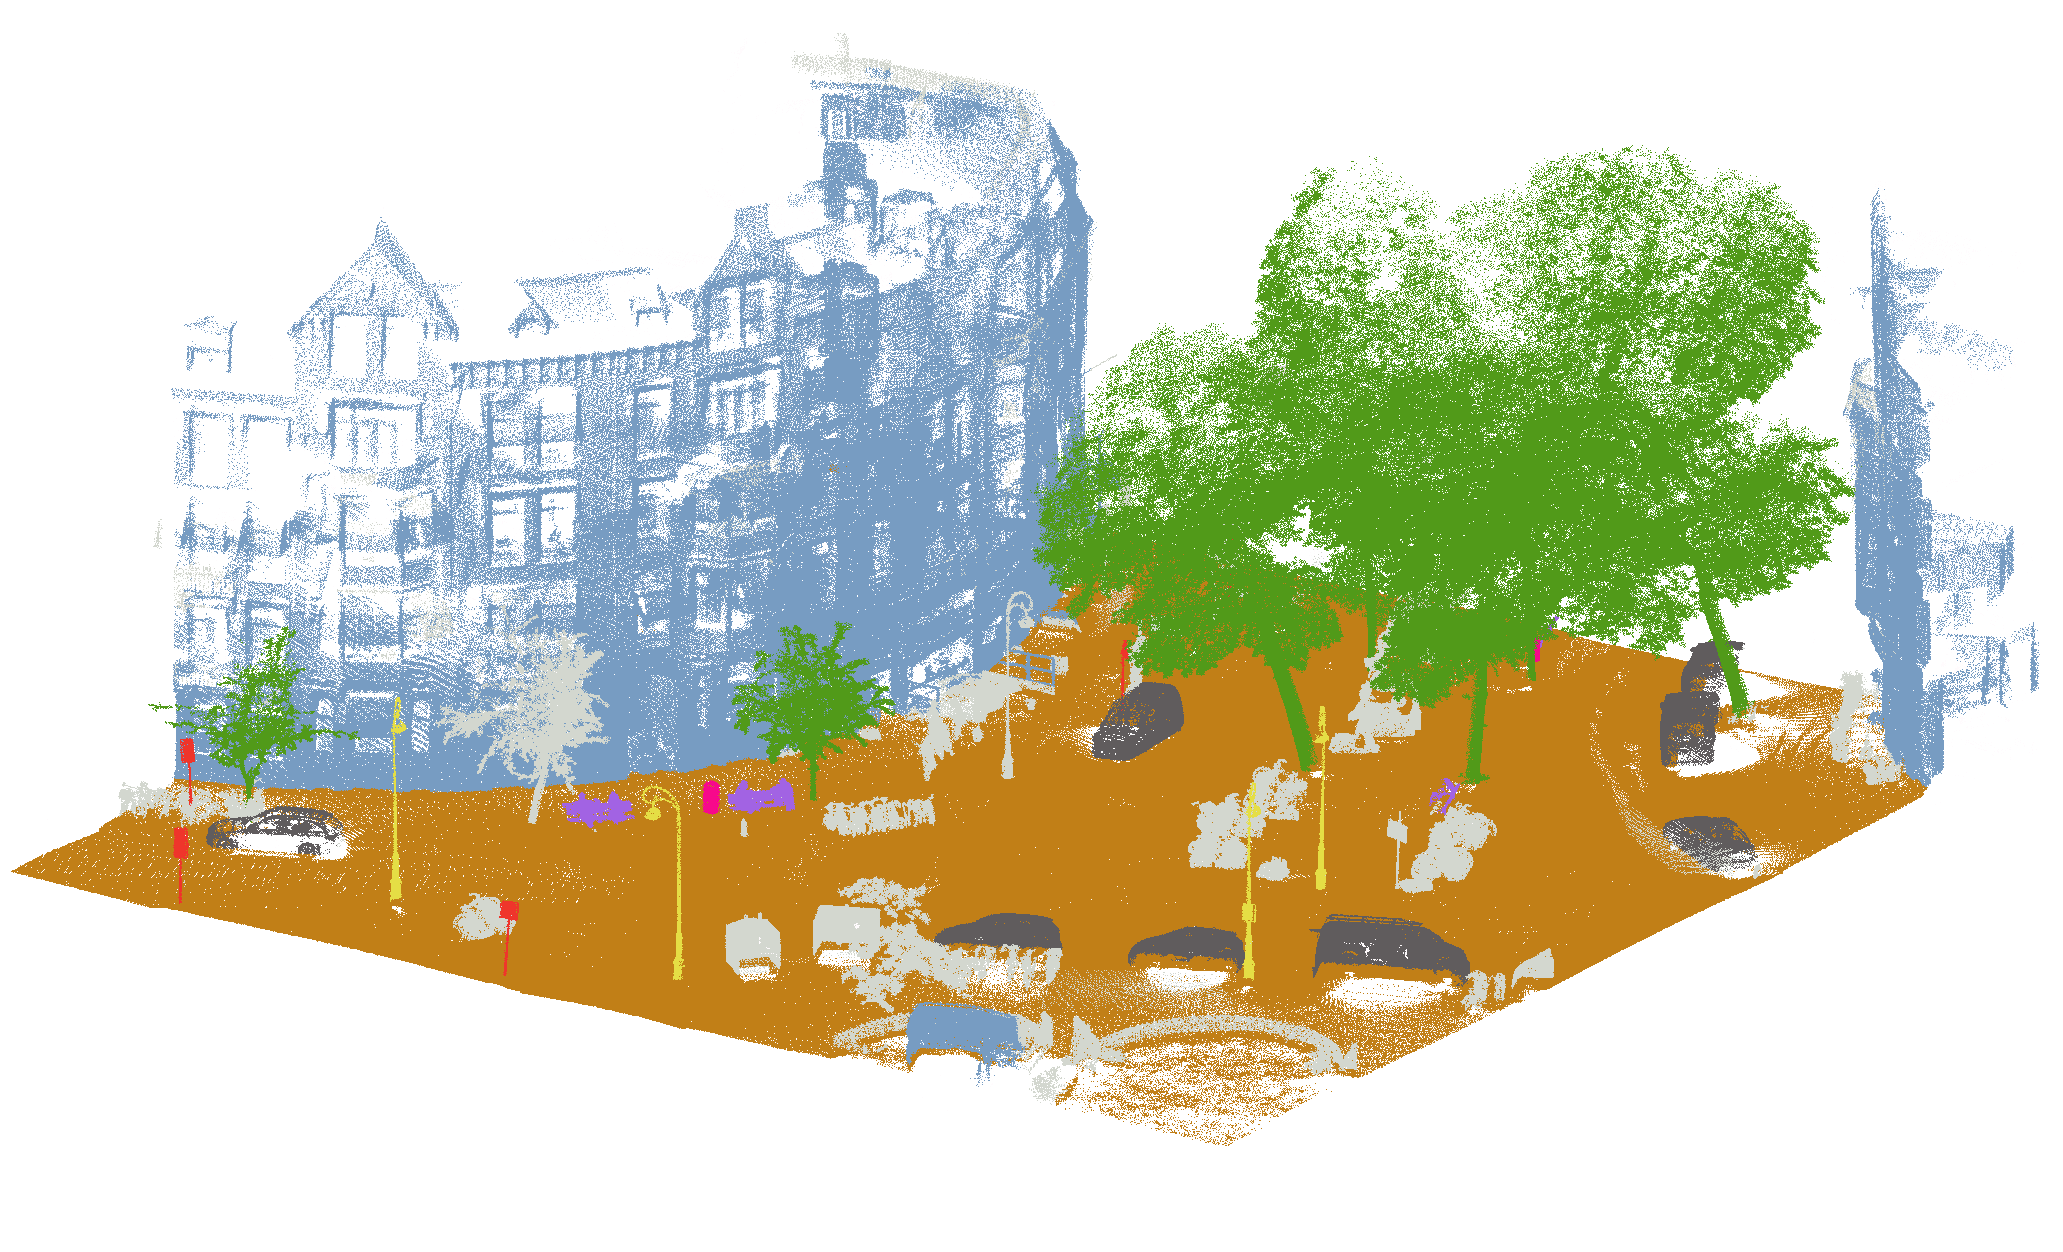
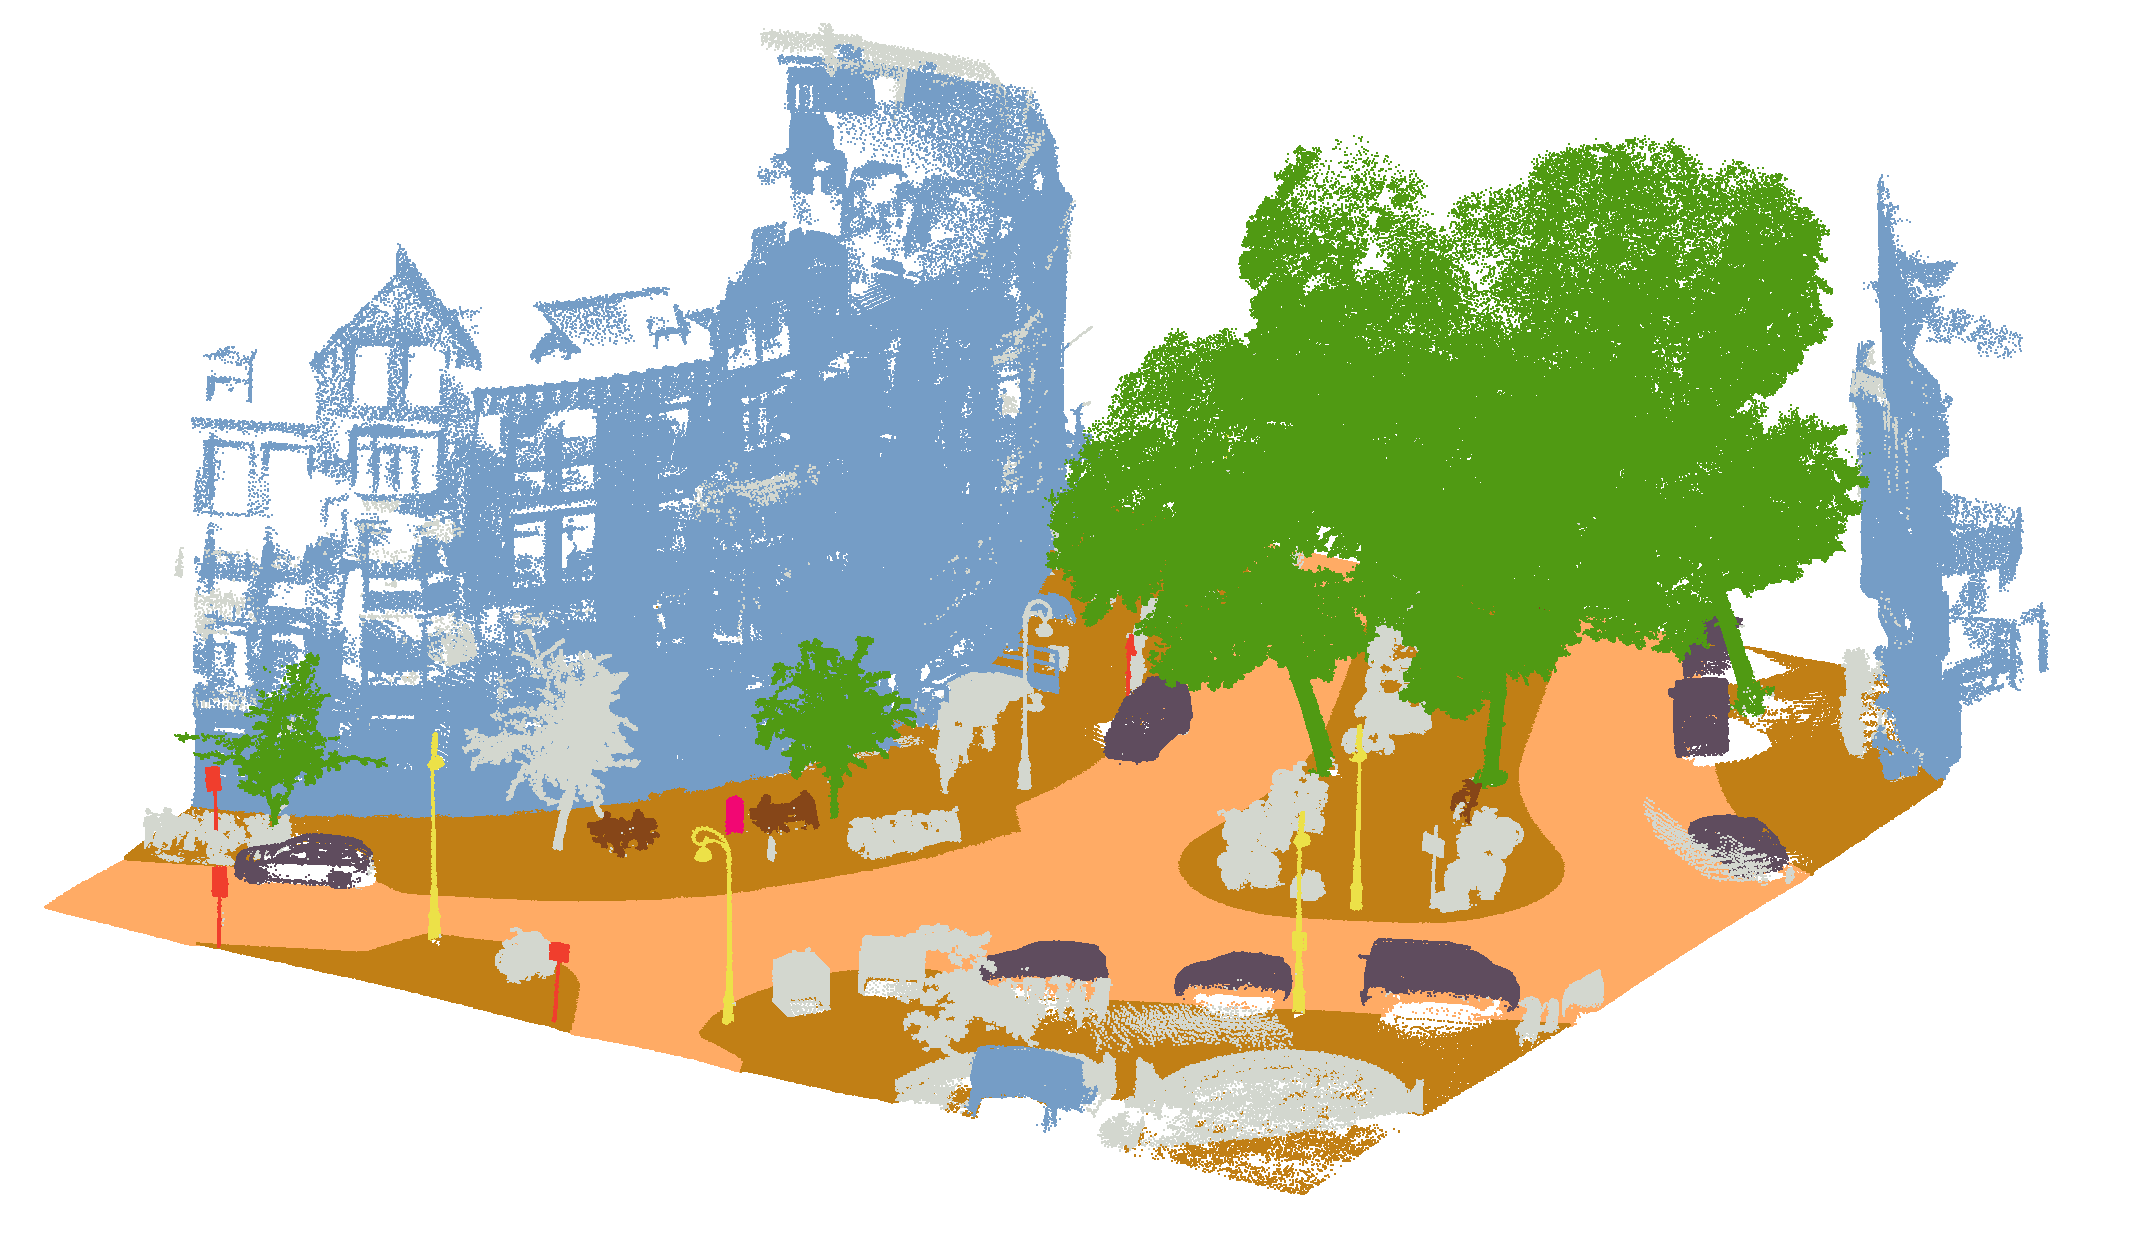
fix/refine_ground_surface (#46)
* Fix shapely deprecation warnings.

* Add ground surface refinement to AHN ground fuser.

* Updated visuals.

* Use caching for numba @jit functions for faster execution after kernel restart.

diff --git a/src/fusion/ahn_fuser.py b/src/fusion/ahn_fuser.py
@@ -4,7 +4,10 @@ import numpy as np
 import logging
 
 from ..abstract_processor import AbstractProcessor
+from ..region_growing import LabelConnectedComp
 from ..labels import Labels
+from ..utils import clip_utils
+from ..utils import math_utils
 
 logger = logging.getLogger(__name__)
 
@@ -31,7 +34,8 @@ class AHNFuser(AbstractProcessor):
 
     TARGETS = ('ground', 'building')
 
-    def __init__(self, label, ahn_reader, target='ground', epsilon=0.2):
+    def __init__(self, label, ahn_reader, target='ground', epsilon=0.2,
+                 refine_ground=True, params={}):
         super().__init__(label)
         if target not in self.TARGETS:
             logger.error(f'Target should be one of {self.TARGETS}.')
@@ -45,6 +49,67 @@ class AHNFuser(AbstractProcessor):
         self.method = ahn_reader.NAME
         self.target = target
         self.epsilon = epsilon
+        self.refine_ground = refine_ground
+        self.params = self._set_defaults(params)
+
+    def _set_defaults(self, params):
+        """Set defaults for parameters if not provided."""
+        if 'bottom' not in params:
+            params['bottom'] = 0.02
+        if 'top' not in params:
+            params['top'] = 0.5
+        if 'grid_size' not in params:
+            params['grid_size'] = 0.4
+        if 'min_comp_size' not in params:
+            params['min_comp_size'] = 50
+        if 'buffer' not in params:
+            params['buffer'] = 0.05
+        return params
+
+    def _refine_layer(self, points, points_z,
+                      labels, ground_mask, target_label):
+        """Process a layer of the region grower."""
+
+        mask = np.zeros((len(points),), dtype=bool)
+        label_ids = np.where(labels == target_label)[0]
+        ground_ids = np.where(ground_mask)[0]
+
+        lcc = LabelConnectedComp(
+                    target_label, grid_size=self.params['grid_size'],
+                    min_component_size=self.params['min_comp_size'])
+        point_components = lcc.get_components(points[label_ids])
+
+        cc_labels = np.unique(point_components)
+        cc_labels = set(cc_labels).difference((-1,))
+
+        for cc in cc_labels:
+            # select points that belong to the cluster
+            cc_mask = (point_components == cc)
+            # Compute convex hull and add a small buffer
+            poly = (math_utils
+                    .convex_hull_poly(points[label_ids[cc_mask], 0:2])
+                    .buffer(self.params['buffer']))
+            # Select ground points within poly
+            poly_mask = clip_utils.poly_clip(points[ground_mask], poly)
+            mask[ground_ids[poly_mask]] = True
+        return mask
+
+    def _refine_ground(self, points, points_z, ground_mask,
+                       labels, target_label):
+        logger.info('Refining ground surface...')
+
+        mask = ((points[:, 2] <= points_z + self.params['top'])
+                & (points[:, 2] >= points_z - self.params['bottom']))
+
+        ref_mask = np.zeros((len(points),), dtype=bool)
+        if np.count_nonzero(labels[mask] == target_label) > 0:
+            add_mask = self._refine_layer(
+                                points[mask, :], points_z[mask], labels[mask],
+                                ground_mask[mask], target_label)
+            ref_mask[mask] = add_mask
+
+        logger.info(f'{np.count_nonzero(add_mask)} points removed.')
+        return ref_mask
 
     def get_label_mask(self, points, labels, mask, tilecode):
         """
@@ -78,8 +143,16 @@ class AHNFuser(AbstractProcessor):
 
         label_mask = np.zeros((len(points),), dtype=bool)
         if self.target == 'ground':
-            label_mask[mask] = (np.abs(points[mask, 2] - target_z)
-                                < self.epsilon)
+            ground_mask = (np.abs(points[mask, 2] - target_z) < self.epsilon)
+            if self.refine_ground:
+                logger.info(f'{np.count_nonzero(ground_mask)} points added.')
+                tmp_labels = labels[mask].copy()
+                tmp_labels[ground_mask] = self.label
+                ref_mask = self._refine_ground(
+                                    points[mask], target_z, ground_mask,
+                                    tmp_labels, Labels.UNLABELLED)
+                ground_mask = ground_mask & ~ref_mask
+            label_mask[mask] = ground_mask
         elif self.target == 'building':
             label_mask[mask] = points[mask, 2] < target_z + self.epsilon
 

diff --git a/src/utils/clip_utils.py b/src/utils/clip_utils.py
@@ -17,7 +17,7 @@ from ..utils import math_utils
 logger = logging.getLogger(__name__)
 
 
-@jit(nopython=True)
+@jit(nopython=True, cache=True)
 def rectangle_clip(points, rect):
     """
     Clip all points within a rectangle.
@@ -38,7 +38,7 @@ def rectangle_clip(points, rect):
     return clip_mask
 
 
-@jit(nopython=True)
+@jit(nopython=True, cache=True)
 def box_clip(points, rect, bottom=-np.inf, top=np.inf):
     """
     Clip all points within a 3D box.
@@ -63,7 +63,7 @@ def box_clip(points, rect, bottom=-np.inf, top=np.inf):
     return box_mask
 
 
-@jit(nopython=True)
+@jit(nopython=True, cache=True)
 def circle_clip(points, center, radius):
     """
     Clip all points within a circle (or unbounded cylinder).
@@ -87,7 +87,7 @@ def circle_clip(points, center, radius):
     return clip_mask
 
 
-@jit(nopython=True)
+@jit(nopython=True, cache=True)
 def cylinder_clip(points, center, radius, bottom=-np.inf, top=np.inf):
     """
     Clip all points within a cylinder.
@@ -114,7 +114,7 @@ def cylinder_clip(points, center, radius, bottom=-np.inf, top=np.inf):
     return clip_mask
 
 
-@jit(nopython=True)
+@jit(nopython=True, cache=True)
 def _point_inside_poly(polygon, point):
     """
     Improved version of the Crossing Number algorithm that checks if a point is
@@ -162,7 +162,7 @@ def _point_inside_poly(polygon, point):
     return intersections & 1
 
 
-@jit(nopython=True, parallel=True)
+@jit(nopython=True, cache=True, parallel=True)
 def is_inside(x, y, polygon):
     """
     Checks for each point in a list whether that point is inside a polygon.

diff --git a/src/utils/math_utils.py b/src/utils/math_utils.py
@@ -1,9 +1,10 @@
 import numpy as np
 from numba import jit
 from scipy.spatial import ConvexHull
+from shapely.geometry import Polygon
 
 
-@jit(nopython=True)
+@jit(nopython=True, cache=True, parallel=True)
 def vector_angle(u, v=np.array([0., 0., 1.])):
     """
     Returns the angle in degrees between vectors 'u' and 'v'. If only 'u' is
@@ -15,7 +16,7 @@ def vector_angle(u, v=np.array([0., 0., 1.])):
     return np.rad2deg(np.arccos(clip))
 
 
-@jit(nopython=True)
+@jit(nopython=True, cache=True, parallel=True)
 def get_octree_level(points, grid_size):
     """Compute nearest octree level based on a desired grid_size."""
     dims = np.zeros((points.shape[1],))
@@ -30,7 +31,7 @@ def get_octree_level(points, grid_size):
     return 1
 
 
-@jit(nopython=True)
+@jit(nopython=True, cache=True, parallel=True)
 def compute_bounding_box(points):
     """
     Get the min/max values of a point list.
@@ -52,6 +53,12 @@ def compute_bounding_box(points):
     y_max = np.max(points[:, 1])
 
     return (x_min, y_min, x_max, y_max)
+
+
+def convex_hull_poly(points):
+    """Return convex hull as a shapely Polygon."""
+    hull = points[ConvexHull(points).vertices]
+    return Polygon(np.vstack((hull, hull[0])))
 
 
 def minimum_bounding_rectangle(points):
